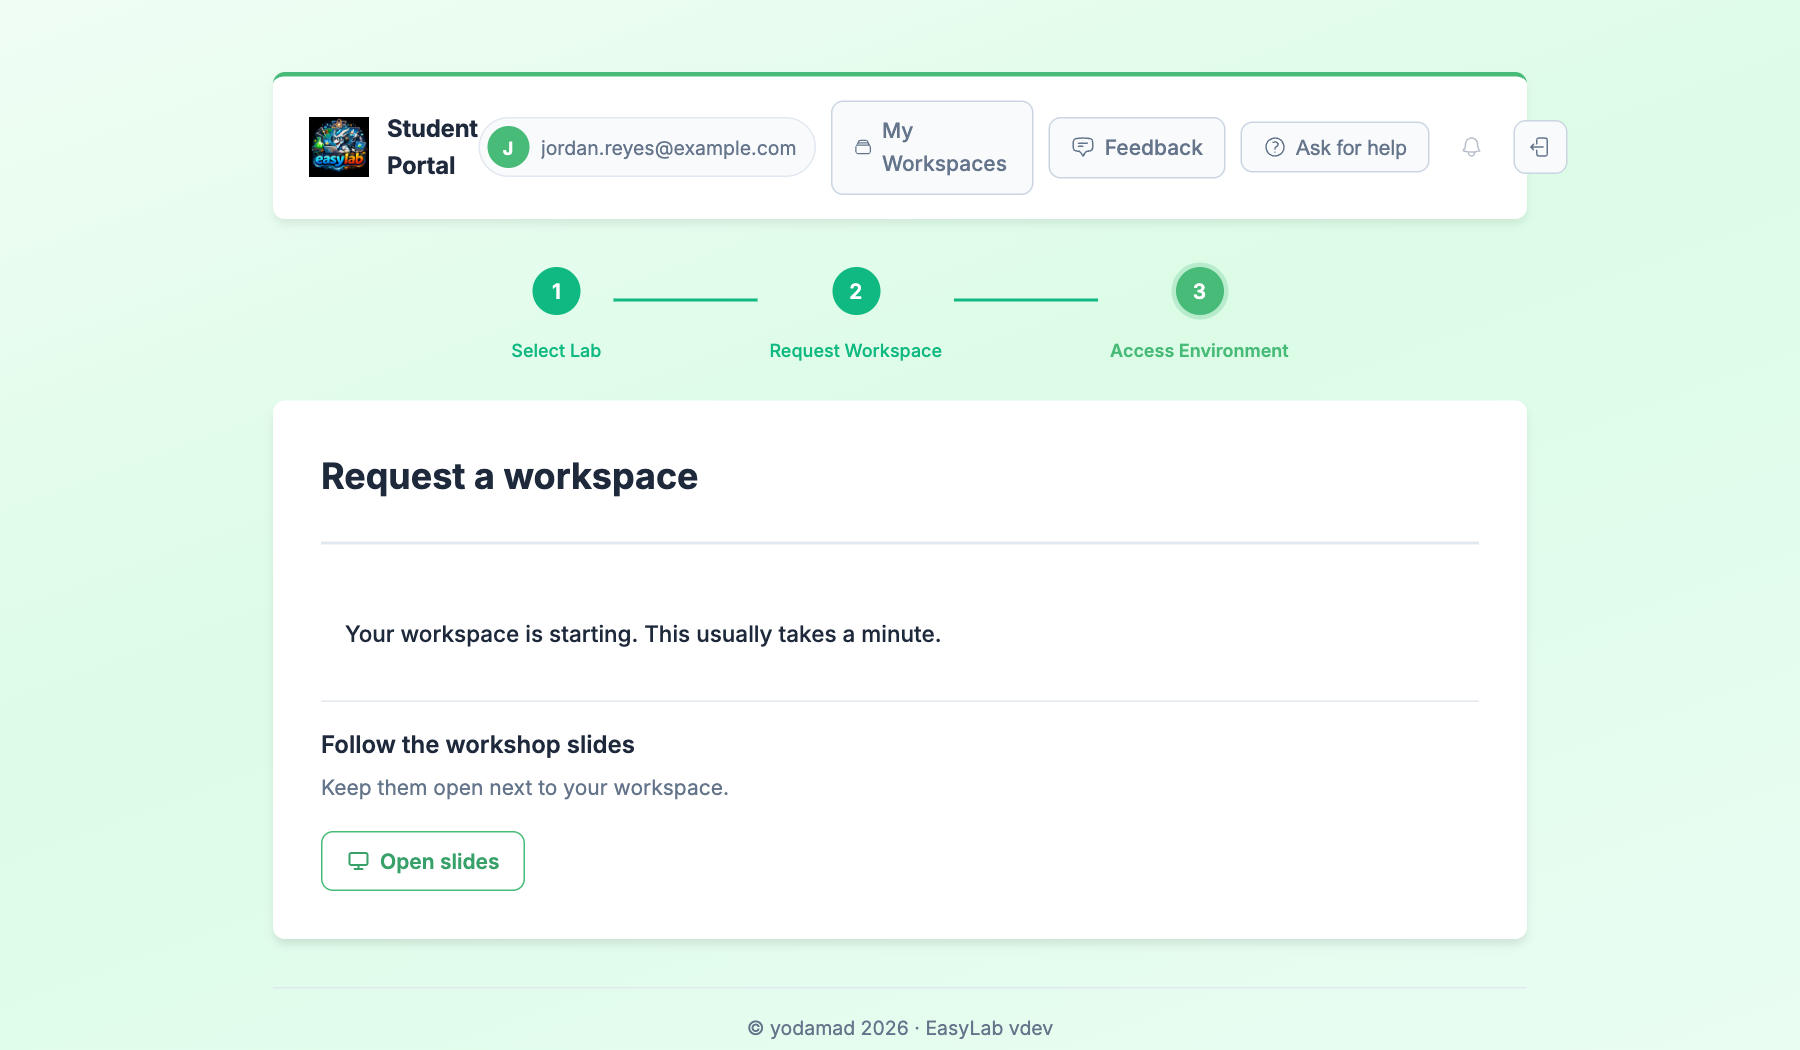
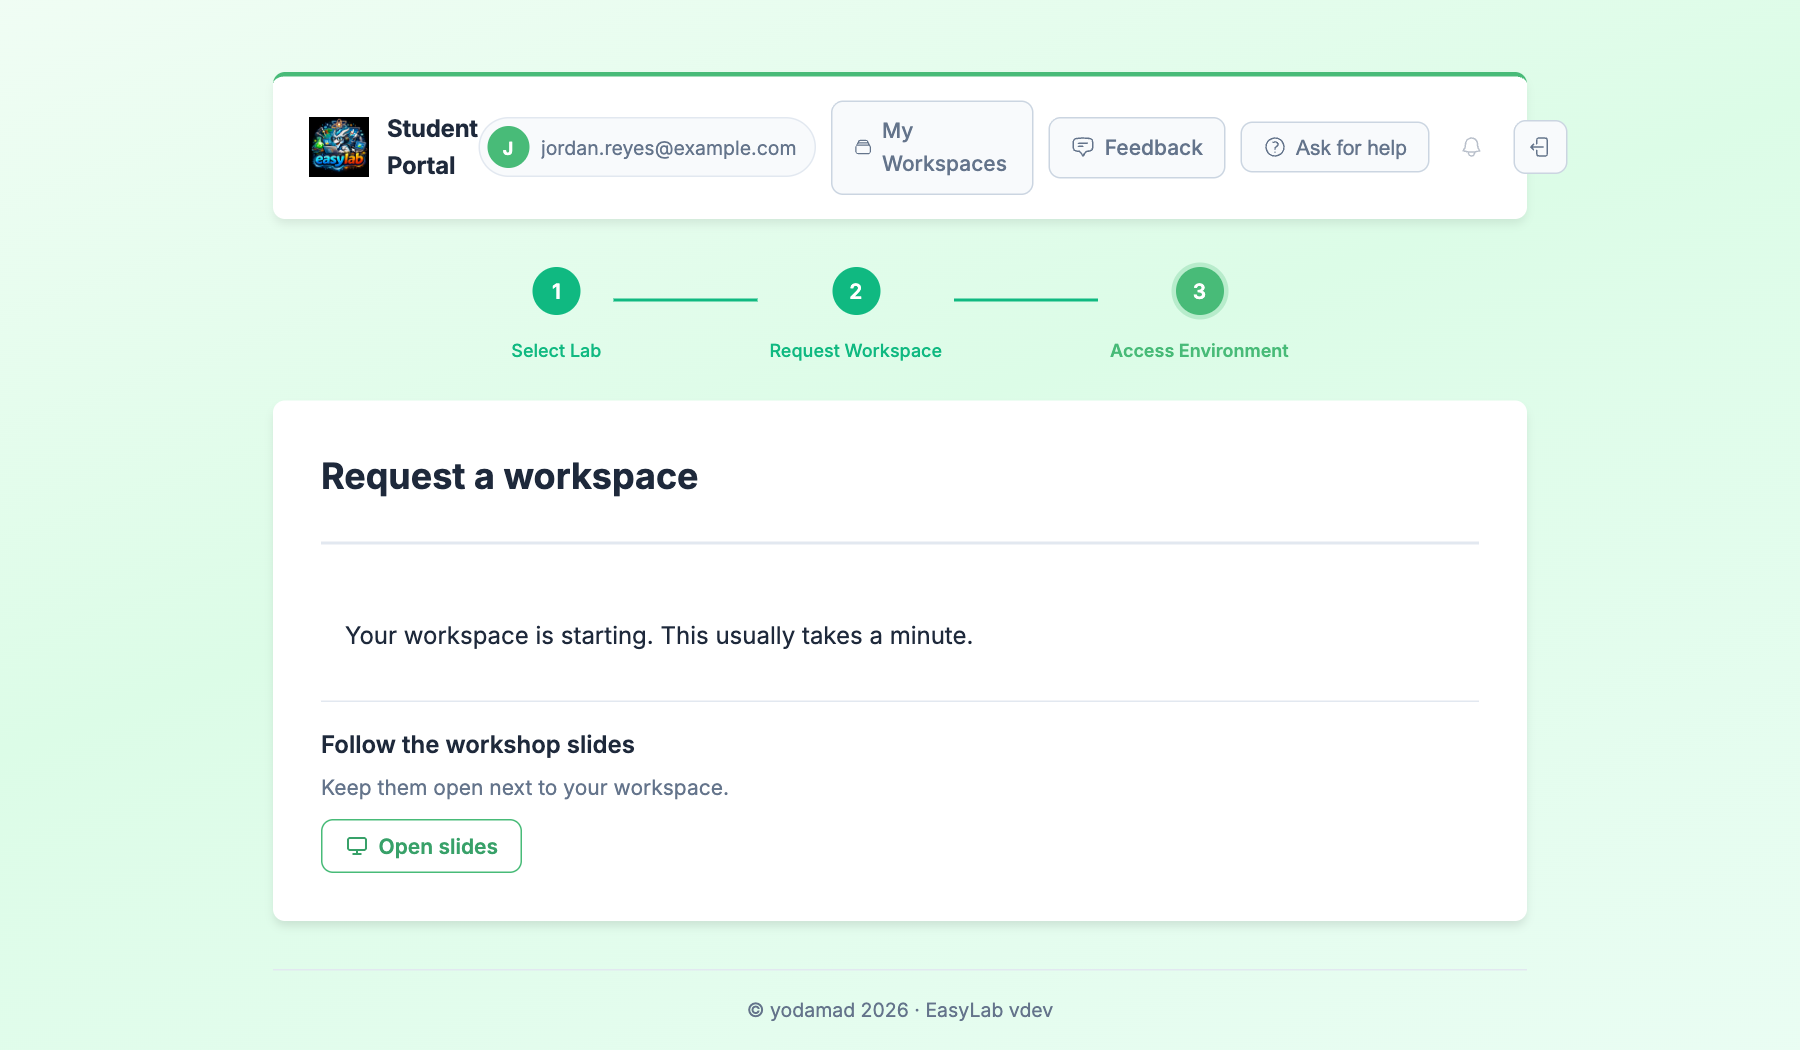
fix: 📐 Align Open slides with Open workspace and rename the open button
- Both header buttons share one border box, line height and margin, so the
  outlined and filled buttons are the same height and aligned
- "Open Code Server" / "Open OpenChamber" becomes "Open workspace"; the
  tooltip still names the IDE

Claude-Session: https://claude.ai/code/session_01ND3gafQRtgqyNqbjSpMNhY

Changed region(s): [[0.1556, 0.7924, 0.84, 0.9143], [0.4044, 0.9448, 0.5911, 1.0], [0.1867, 0.579, 0.5289, 0.64]]

diff --git a/web/static/student-workspaces.js b/web/static/student-workspaces.js
@@ -127,10 +127,10 @@ function renderWorkspaceCard(info, labId) {
         ? `<span class="workspace-card-chip"><span class="workspace-card-chip-key">Template</span>${escapeHtml(info.template)}</span>`
         : '');
 
-    // The open button names the IDE the workspace actually runs. "ide" is absent
-    // for a workspace listed by an older server, which means code-server — whose
-    // label is left exactly as it was, so documented screenshots stay accurate.
-    const openLabel = info.ide === 'openchamber' ? 'Open OpenChamber' : 'Open Code Server';
+    // The button reads the same for every IDE; its tooltip names the IDE the
+    // workspace actually runs. "ide" is absent for a workspace listed by an older
+    // server, which means code-server.
+    const openLabel = 'Open workspace';
     const openTitle = info.ide === 'openchamber' ? 'Open OpenChamber' : 'Open code-server';
     const safeOpenLabel = escapeHtml(openLabel);
     const safeOpenTitle = escapeHtmlAttr(openTitle);

diff --git a/web/static/style.css b/web/static/style.css
@@ -3514,6 +3514,20 @@ select.loading {
     flex-shrink: 0;
 }
 
+/* Open workspace and Open slides sit side by side: same border box and line
+   height, so the outlined button and the filled one are exactly as tall. */
+.workspace-card-open,
+.workspace-card-slides {
+    border: 1px solid var(--student-color);
+    padding: calc(0.5rem - 1px) calc(1rem - 1px);
+    line-height: 1.25rem;
+    margin-top: 0;
+}
+
+.workspace-card-open:hover {
+    border-color: var(--student-hover);
+}
+
 @media (max-width: 480px) {
     .workspace-card-header {
         flex-wrap: wrap;

diff --git a/docs/student.md b/docs/student.md
@@ -84,7 +84,7 @@ Then, you'll get all information needed to connect to your workspace!
 
 Just use the provided link and credentials to connect to your workspace. A **View my workspaces →** link takes you to the My Workspaces page, where the new workspace is already listed.
 
-The **connection token** is the password your workspace asks for when you open its URL directly. It is shown here, when you request the workspace; the My Workspaces page does not display it. With code-server you rarely need it — **Open Code Server** on the My Workspaces page signs you in for you. **Open OpenChamber** does the same on an [OpenChamber](#openchamber-workspaces) workspace; you only need the token if you open the URL directly, or in the rare case the [password page](#openchamber-workspaces) is shown.
+The **connection token** is the password your workspace asks for when you open its URL directly. It is shown here, when you request the workspace; the My Workspaces page does not display it. With code-server you rarely need it — **Open workspace** on the My Workspaces page signs you in for you, and does the same on an [OpenChamber](#openchamber-workspaces) workspace; you only need the token if you open the URL directly, or in the rare case the [password page](#openchamber-workspaces) is shown.
 
 !!! info "Waiting for DNS"
     Right after a workspace starts you may briefly see *"Workspace is up — waiting for DNS to propagate..."*. On a lab with a public domain, the workspace address is created in DNS when the environment is provisioned and can take up to a minute to become resolvable. EasyLab holds back the **Open** button until the address actually resolves, so you are not handed a link that fails with `DNS_PROBE_FINISHED_NXDOMAIN`. When the button turns green, the workspace is reachable.
@@ -131,7 +131,7 @@ Expand the card to reveal the rest:
 * **Created at** — when the workspace was created
 * **Slides** — the template's slides link, when the organiser set one
 
-An **Open Code Server** button is available on each card header — you don't need to expand the card to use it (on an [OpenChamber](#openchamber-workspaces) workspace it reads **Open OpenChamber**). Click it to open the workspace in a new tab — EasyLab resolves the workspace URL automatically so you don't need to copy it manually. It also signs you in, on code-server and on OpenChamber, so you land straight in the IDE without typing a password. The card does not show the workspace's connection token: if you open the workspace URL directly, you are asked for the token you were given when you requested the workspace.
+An **Open workspace** button is available on each card header — you don't need to expand the card to use it. It works the same on code-server and [OpenChamber](#openchamber-workspaces) workspaces; hover it to see which IDE it opens. Click it to open the workspace in a new tab — EasyLab resolves the workspace URL automatically so you don't need to copy it manually. It also signs you in, on code-server and on OpenChamber, so you land straight in the IDE without typing a password. The card does not show the workspace's connection token: if you open the workspace URL directly, you are asked for the token you were given when you requested the workspace.
 
 ### OpenChamber workspaces
 
@@ -141,7 +141,7 @@ web interface for running and reviewing an AI coding agent's work.
 
 Two things work differently:
 
-* **You are signed in for you.** Click **Open OpenChamber** and you land straight in
+* **You are signed in for you.** Click **Open workspace** and you land straight in
   OpenChamber, already signed in — there is no password to copy or paste, exactly as
   with code-server.
 * **Add your project on first login.** Your workshop repository is already cloned,
@@ -154,7 +154,7 @@ survive a restart.
 !!! info "When you are still shown the password"
     In rare cases EasyLab cannot sign you in automatically: the workspace was created
     before this was supported, or an admin opens it from a page that is not on the
-    lab's domain. **Open OpenChamber** then shows a page with the workspace password,
+    lab's domain. **Open workspace** then shows a page with the workspace password,
     a **Copy password** button and a link through to your workspace. Paste the password
     at OpenChamber's login prompt once; it works as it always did, and OpenChamber
     remembers your browser afterwards. The same password is what you type if you open
@@ -170,7 +170,7 @@ A paused workspace keeps **all its files**, its URL and its password; its card s
 
 To bring it back:
 
-* On **My Workspaces**, click **Open Code Server**. A message tells you the workspace is starting again; click **Open Code Server** once more a moment later to get in.
+* On **My Workspaces**, click **Open workspace**. A message tells you the workspace is starting again; click **Open workspace** once more a moment later to get in.
 * On **Request a workspace**, a paused workspace shows *"⏸ Workspace paused after inactivity"* with a **Resume** button. Requesting the same template again resumes it too.
 
 What does not survive a pause is anything that was *running*: open terminals and the commands in them. If you need to leave a long command running, keep the code-server tab open.
